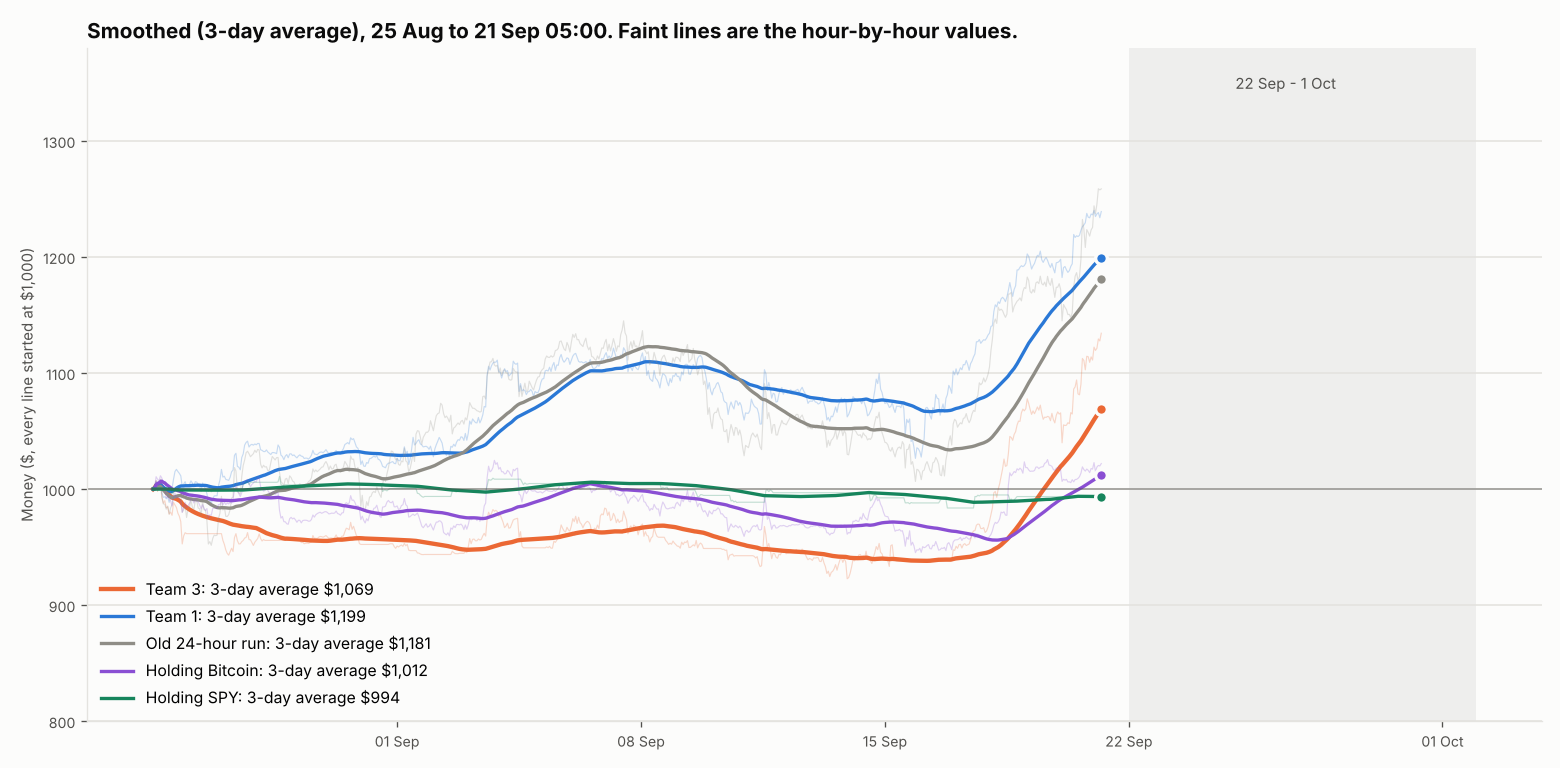
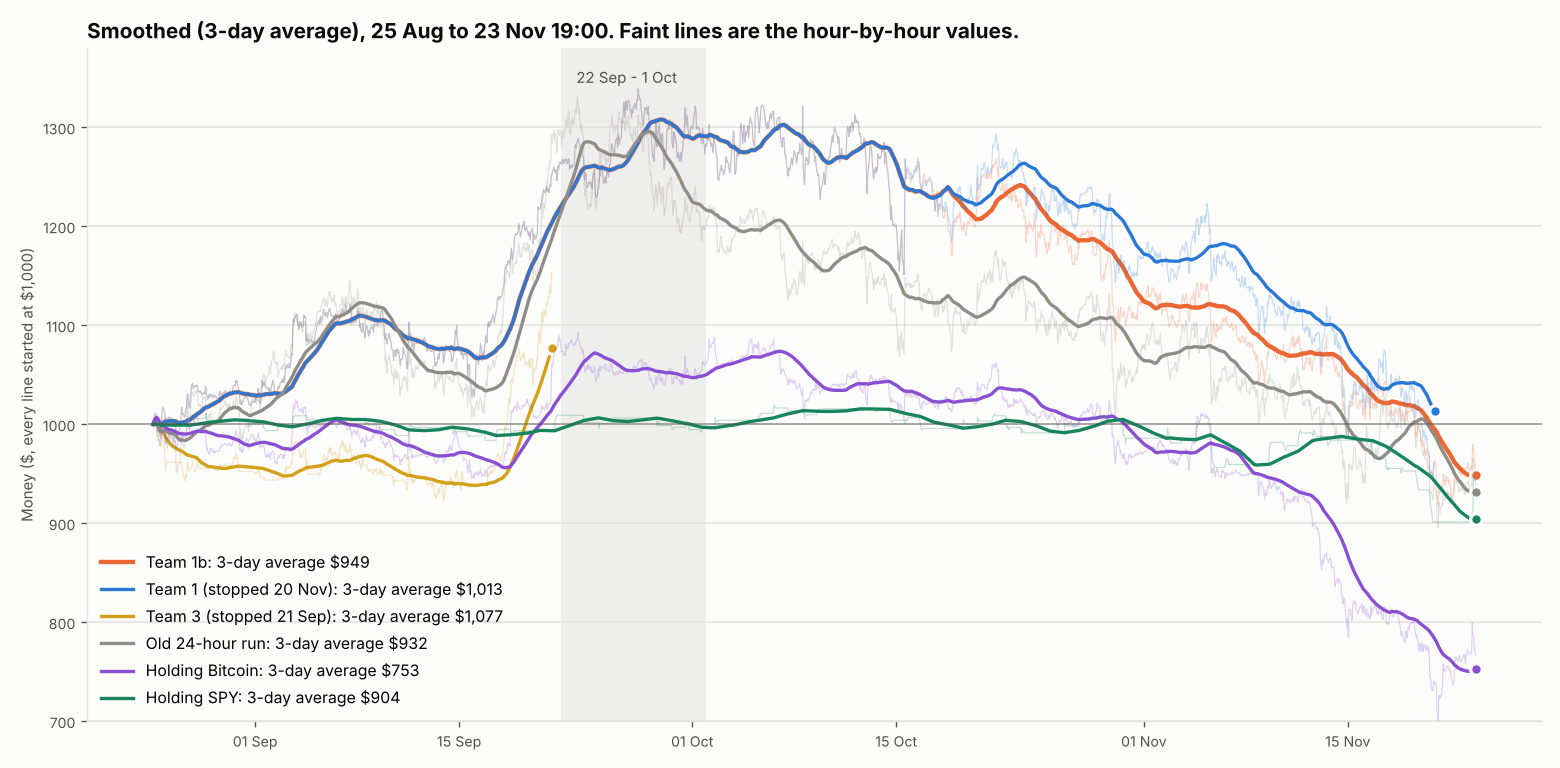
Team 1b finished; graphs show team 1b
Claude-Session: https://claude.ai/code/session_01Q4zuW2hFjpzuH9a9JaFPqg

diff --git a/mixed/smooth_chart.py b/mixed/smooth_chart.py
@@ -1,6 +1,6 @@
 #!/usr/bin/env python3
 """Smoothed view: each line as its average over the last 3 days (72 hours), so short spikes and dips are evened out.
-Team 3, Team 1, the old 24-hour run, holding Bitcoin and holding SPY, all cut at the same last hour; the 22 Sep - 1 Oct peak
+Team 1b, Team 1, Team 3, the old 24-hour run, holding Bitcoin and holding SPY, all cut at the same last hour; the 22 Sep - 1 Oct peak
 window is shaded.   python3 mixed/smooth_chart.py -> mixed/smooth_chart.png"""
 import os
 import pandas as pd
@@ -20,11 +20,13 @@ def load(name):
     return d.set_index(pd.to_datetime(d.time))
 
 
-t3, t1, old = load("watcher_team3.csv"), load("watcher_team1.csv"), load("watcher_hourly_3m_ultra_avg24.csv")
-end = t3.index[-1]
-t3, t1, old = t3[:end], t1[:end], old[:end]
-lines = [("Team 3", t3.value, "#eb6834", 2.6), ("Team 1", t1.value, "#2a78d6", 2.0), ("Old 24-hour run", old.value, "#8f8d86", 2.0),
-         ("Holding Bitcoin", t3.btc_hold, "#8a4fd3", 2.0), ("Holding SPY", t3.spy_hold, "#16855c", 2.0)]
+t1b, t3, t1, old = (load(f) for f in ("watcher_team1b.csv", "watcher_team3.csv", "watcher_team1.csv",
+                                       "watcher_hourly_3m_ultra_avg24.csv"))
+end = t1b.index[-1]
+t1b, t3, t1, old = t1b[:end], t3[:end], t1[:end], old[:end]
+lines = [("Team 1b", t1b.value, "#eb6834", 2.6), ("Team 1 (stopped 20 Nov)", t1.value, "#2a78d6", 2.0),
+         ("Team 3 (stopped 21 Sep)", t3.value, "#d4a017", 2.0), ("Old 24-hour run", old.value, "#8f8d86", 2.0),
+         ("Holding Bitcoin", t1b.btc_hold, "#8a4fd3", 2.0), ("Holding SPY", t1b.spy_hold, "#16855c", 2.0)]
 fig, ax = plt.subplots(figsize=(13, 6.4), facecolor=SURF)
 ax.axvspan(pd.Timestamp("2026-09-22"), pd.Timestamp("2026-10-01 23:00"), color=INK2, alpha=0.08, lw=0)
 ax.text(pd.Timestamp("2026-09-26 12:00"), 1345, "22 Sep - 1 Oct", ha="center", fontsize=9, color=INK2)
@@ -34,7 +36,7 @@ for name, s, col, lw in lines:
     ax.plot(m.index, m, color=col, lw=lw, label=f"{name}: 3-day average ${m.iloc[-1]:,.0f}")
     ax.plot([m.index[-1]], [m.iloc[-1]], "o", color=col, ms=7, mec=SURF, mew=2)
 ax.axhline(1000, color=INK2, lw=1, alpha=0.5)
-ax.set_ylim(800, 1380)
+ax.set_ylim(700, 1380)
 ax.set_title(f"Smoothed (3-day average), 25 Aug to {end:%d %b %H:%M}. Faint lines are the hour-by-hour values.",
              loc="left", fontsize=12.5, color=INK, weight="bold")
 ax.set_ylabel("Money ($, every line started at $1,000)", color=INK2, fontsize=9)

diff --git a/mixed/update_chart.py b/mixed/update_chart.py
@@ -1,5 +1,5 @@
 #!/usr/bin/env python3
-"""The standard update graph: team 3 (with team 1, stopped on 20 Nov, and the old 24-hour-rule run for reference), holding Bitcoin and
+"""The standard update graph: team 1b (with team 1, stopped on 20 Nov, and the old 24-hour-rule run for reference), holding Bitcoin and
 holding SPY, all cut at the same last hour. `python3 mixed/update_chart.py old` draws the two finished runs instead.
 Left: the whole test, with each line's peak marked. Right: the last days enlarged, with each line's ending dollars
 written on it, so the picture and the printed table show the same numbers.
@@ -44,7 +44,7 @@ def main():
         wk = load("watcher_hourly_3m_ultra_week.csv")
         runs = [("AI, 24-hour rule", day, "#eb6834", 2.0), ("AI, weekly rule", wk, "#2a78d6", 2.0)]
     else:
-        runs = [("Team 3 (sell all in a market fall)", load("watcher_team3.csv"), "#eb6834", 2.2),
+        runs = [("Team 1b (new market line from 15 Oct)", load("watcher_team1b.csv"), "#eb6834", 2.2),
                 ("Team 1 (stopped 20 Nov)", load("watcher_team1.csv"), "#2a78d6", 1.6),
                 ("Old 24-hour run", day, "#8f8d86", 1.3)]
     t_end = runs[0][1][-1]["time"]                 # the same last hour for every line (finished runs are cut there too)
